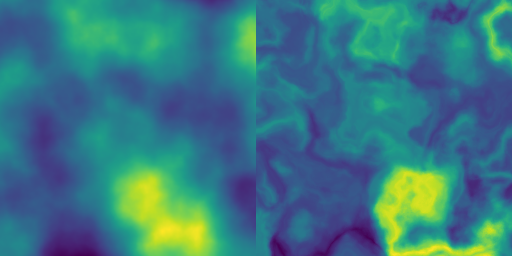
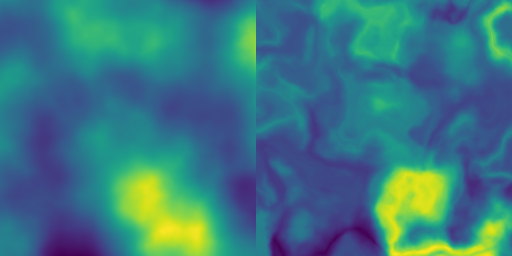
Switch to array nosie function for warping operator

diff --git a/HighMap/src/op/warp.cpp b/HighMap/src/op/warp.cpp
@@ -7,61 +7,24 @@
 
 #include "highmap/array.hpp"
 #include "highmap/kernels.hpp"
+#include "highmap/noise_function.hpp"
 #include "highmap/op.hpp"
-#include "highmap/primitives.hpp"
 
 namespace hmap
 {
 
-void warp(Array &array, const Array *p_dx, const Array *p_dy, float scale)
+void warp(Array &array, Array *p_dx, Array *p_dy)
 {
-  int i1 = 1;
-  int i2 = 1;
-  int j1 = 1;
-  int j2 = 1;
+  hmap::ArrayFunction f = hmap::ArrayFunction(array,
+                                              Vec2<float>(1.f, 1.f),
+                                              true);
 
-  std::function<void(float &, int &, int &)> lambda_x;
-  std::function<void(float &, int &, int &)> lambda_y;
-
-  if (p_dx)
-  {
-    i1 = std::max(1, -(int)(p_dx->min() * scale));
-    i2 = std::max(1, (int)(p_dx->max() * scale));
-
-    lambda_x = [p_dx, &scale](float &x_, int &i_, int &j_)
-    { x_ = (float)i_ + (*p_dx)(i_, j_) * scale; };
-  }
-  else
-    lambda_x = [](float &x_, int &i_, int &) { x_ = (float)i_; };
-
-  if (p_dy)
-  {
-    j1 = std::max(1, -(int)(p_dy->min() * scale));
-    j2 = std::max(1, (int)(p_dy->max() * scale));
-    lambda_y = [p_dy, &scale](float &y_, int &i_, int &j_)
-    { y_ = (float)j_ + (*p_dy)(i_, j_) * scale; };
-  }
-  else
-    lambda_y = [](float &y_, int &, int &j_) { y_ = (float)j_; };
-
-  Array array_buffered = generate_buffered_array(array, {i1, i2, j1, j2});
-
-  for (int i = 0; i < array.shape.x; i++)
-    for (int j = 0; j < array.shape.y; j++)
-    {
-      // warped position
-      float x, y;
-      lambda_x(x, i, j);
-      lambda_y(y, i, j);
-
-      // nearest grid point (and bilinear interpolation parameters)
-      int   ip = (int)x + i1;
-      int   jp = (int)y + j1;
-      float u = x - (float)(ip - i1);
-      float v = y - (float)(jp - j1);
-
-      array(i, j) = array_buffered.get_value_bilinear_at(ip, jp, u, v);
-    }
+  fill_array_using_xy_function(array,
+                               {0.f, 1.f, 0.f, 1.f},
+                               p_dx,
+                               p_dy,
+                               nullptr,
+                               f.get_function());
 }
 
 void warp_directional(Array &array,

diff --git a/HighMap/include/highmap/op.hpp b/HighMap/include/highmap/op.hpp
@@ -2493,14 +2493,9 @@ Array valley_width(const Array &z, int ir = 0);
 /**
  * @brief Apply a warping effect to the array.
  *
- * @todo test higher order interpolations
- *
  * @param array Input array.
- * @param p_dx Reference to the translation array definition following 'i'
- * direction, (scale is 1:1, dx = 1 => 1 pixel).
- * @param p_dy Reference to the translation array definition following 'j'
- * direction, (scale is 1:1, dy = 1 => 1 pixel).
- * @param scale Scaling applied to dx and and dy.
+ * @param p_dx Reference to the x translation array.
+ * @param p_dy Reference to the y translation array.
  *
  * **Example**
  * @include ex_warp.cpp
@@ -2508,10 +2503,7 @@ Array valley_width(const Array &z, int ir = 0);
  * **Result**
  * @image html ex_warp.png
  */
-void warp(Array       &array,
-          const Array *p_dx,
-          const Array *p_dy,
-          float        scale = 1.f);
+void warp(Array &array, Array *p_dx, Array *p_dy);
 
 /**
  * @brief Apply a warping effect following the downward local gradient direction

diff --git a/examples/ex_warp/ex_warp.cpp b/examples/ex_warp/ex_warp.cpp
@@ -1,7 +1,4 @@
-#include "highmap/array.hpp"
-#include "highmap/io.hpp"
-#include "highmap/op.hpp"
-#include "highmap/primitives.hpp"
+#include "highmap.hpp"
 
 int main(void)
 {
@@ -15,15 +12,12 @@ int main(void)
   hmap::Array dx = hmap::fbm_perlin(shape, {4.f, 4.f}, seed + 1);
   hmap::Array dy = hmap::fbm_perlin(shape, {4.f, 4.f}, seed + 2);
 
-  // adjust warping maximum displacement to +- 64 pixels in both
-  // directions
-  float scale = 32.f;
+  // warping scale assuming a unit square domain
+  float scale = 0.25f;
   remap(dx, -scale, scale);
   remap(dy, -scale, scale);
 
   hmap::warp(z, &dx, &dy);
 
   hmap::export_banner_png("ex_warp.png", {z0, z}, hmap::cmap::viridis);
-
-  z.to_file("out.bin");
 }

diff --git a/examples/ex_noise_function/ex_noise_function.cpp b/examples/ex_noise_function/ex_noise_function.cpp
@@ -28,8 +28,8 @@ int main(void)
   //     std::unique_ptr<hmap::NoiseFunction>(
   //         new hmap::WorleyDoubleFunction(kw, seed, 0.5f, 0.5f));
 
-  //hmap::PerlinFunction p = hmap::PerlinFunction(kw, seed);
-  // hmap::Simplex2Function     p = hmap::Simplex2Function(kw, seed);
+  // hmap::PerlinFunction p = hmap::PerlinFunction(kw, seed);
+  //  hmap::Simplex2Function     p = hmap::Simplex2Function(kw, seed);
   hmap::WorleyDoubleFunction q = hmap::WorleyDoubleFunction(kw,
                                                             seed,
                                                             0.5f,

diff --git a/HighMap/src/primitives/noise_function.cpp b/HighMap/src/primitives/noise_function.cpp
@@ -21,14 +21,14 @@ ArrayFunction::ArrayFunction(hmap::Array array, Vec2<float> kw, bool periodic)
       float xp = 0.5f * this->kw.x * x;
       float yp = 0.5f * this->kw.y * y;
 
-      xp = 2.f * (xp - int(xp));
-      yp = 2.f * (yp - int(yp));
+      xp = 2.f * std::abs(xp - int(xp));
+      yp = 2.f * std::abs(yp - int(yp));
 
       xp = xp < 1.f ? xp : 2.f - xp;
       yp = yp < 1.f ? yp : 2.f - yp;
 
-      smoothstep3(xp);
-      smoothstep3(yp);
+      smoothstep5(xp);
+      smoothstep5(yp);
 
       float xg = xp * (this->array.shape.x - 1);
       float yg = yp * (this->array.shape.y - 1);
